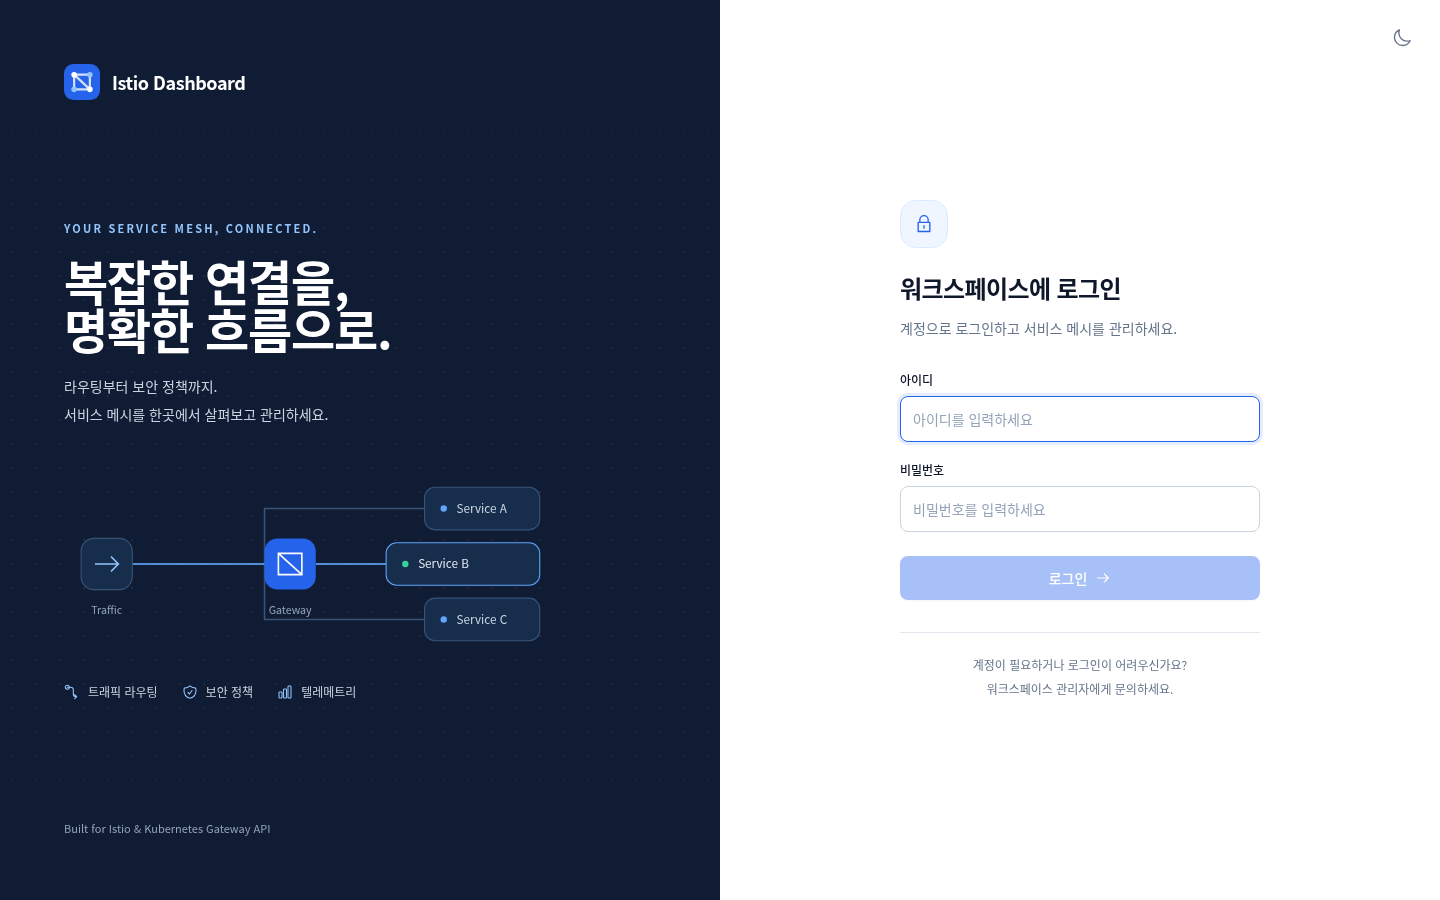
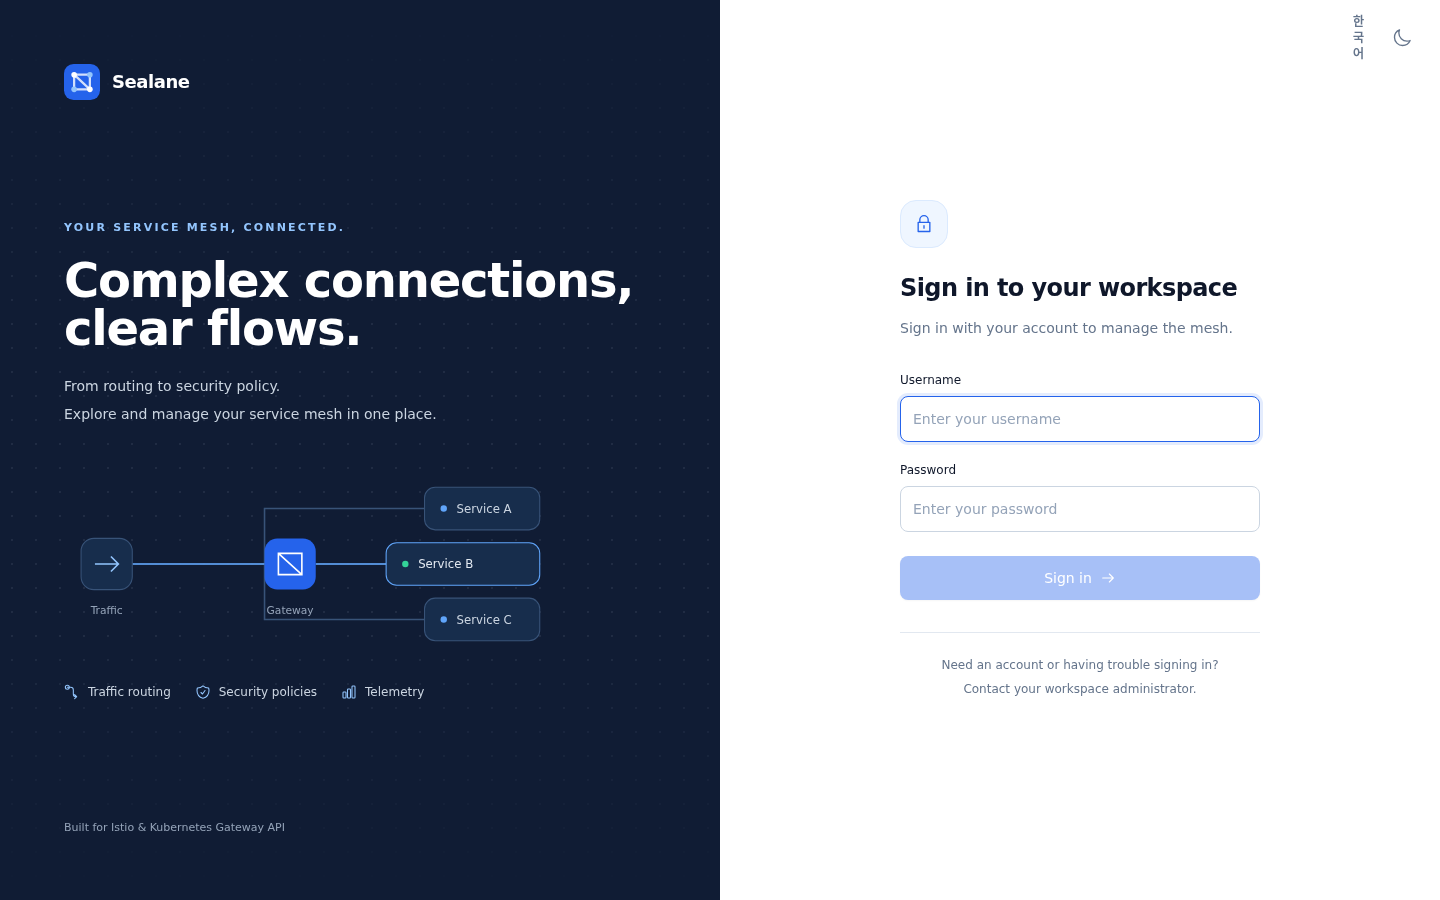
Add screenshot script and refresh README screenshots with the English UI

diff --git a/web/tests/README.md b/web/tests/README.md
@@ -12,3 +12,5 @@ The checks replace API responses with fixtures. They verify that a removed clust
 The flow map checks cover mixed ingress/egress parents, missing gateways, search and namespace filters retaining related paths, problem paths, keyboard selection, scaled drag, layout reset, 320–1440px layouts, reduced motion, and empty/error/retry states.
 
 Set `SEALANE_TEST_URL` to change the frontend URL. Set `SEALANE_CHROMIUM_PATH` to use an existing Chromium executable.
+
+`node tests/screenshots.mjs` regenerates the README screenshots against a running instance (`SEALANE_URL`, `SEALANE_USER`, `SEALANE_PASS`); deploy `examples/demo-mesh.yaml` first so the request console has a target.
